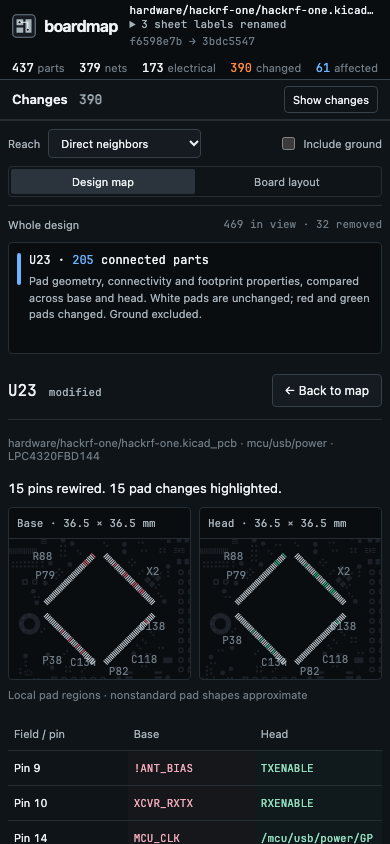
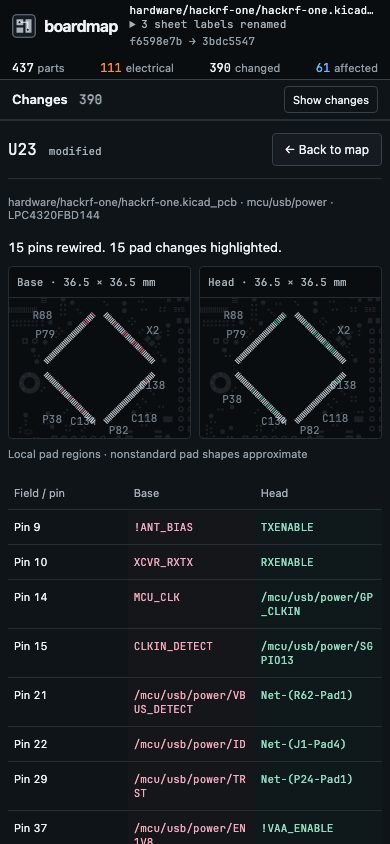
Refresh real-board review captures and the ZD1 hero demo

diff --git a/docs/media/instrument/README.md b/docs/media/instrument/README.md
@@ -12,6 +12,8 @@ Actual Chromium captures of the pinned real-board comparisons. Each run starts a
 | `hackrf/touch-reach.png`, `corne/touch-reach.png` | 390×844  | First-tap reach preview and explicit inspect action                      |
 | `hackrf/touch-diff.png`, `corne/touch-diff.png`   | 390×844  | Inspector opened through the touch action                                |
 
+`header-1024.png` checks the visible electrical headline at laptop width. `keyboard-focus.png` shows roving keyboard selection and reach. HackRF's `u17-inspector.png` places the replacement context above its 51 changed pin rows.
+
 `sheet.png` and `board.png` capture drill-in and footprint-center views during the browser regression. `mobile.png` is the ordinary browser's mobile-width state. The `touch-*` captures use a separate context with `hasTouch: true` and `isMobile: true`.
 
 The header's electrical total includes high-priority modifications plus added and removed parts with pads. Raw statuses remain intact. Zero-pad artwork is grouped as metadata, so the grouped removed/added counts can differ from raw status counts.
@@ -21,7 +23,7 @@ The header's electrical total includes high-priority modifications plus added an
 | HackRF       |        437 |                        469 |     390 |                       73 |            29 |           9 |            279 |                     111 |
 | Corne cherry |        180 |                        184 |      18 |                        6 |             2 |           4 |              6 |                      12 |
 
-HackRF's first electrical rows are U17 with 51 rewired pins, U19 with 19 and U23 with 15. The numbers come from changed numbered pin-net assignments across both revisions. Population transitions and both-present part identifier replacements also qualify for this tier. Verified legacy assembly-metadata migrations and explicitly flagged unconnected fiducials are quiet metadata; raw changes and reach remain unchanged. See ../../assembly-priority.md. DNP and identifier rules have focused unit assertions.
+HackRF's first electrical rows are U17 with 51 rewired pins, U19 with 19 and U23 with 15. The numbers come from changed numbered pin-net assignments across both revisions. Population transitions and both-present part identifier replacements also qualify for this tier. Verified legacy assembly-metadata migrations and explicitly flagged unconnected fiducials are quiet metadata; raw changes and reach remain unchanged. See [assembly priority](../../assembly-priority.md). DNP and identifier rules have focused unit assertions.
 
 ## Reproduce
 
